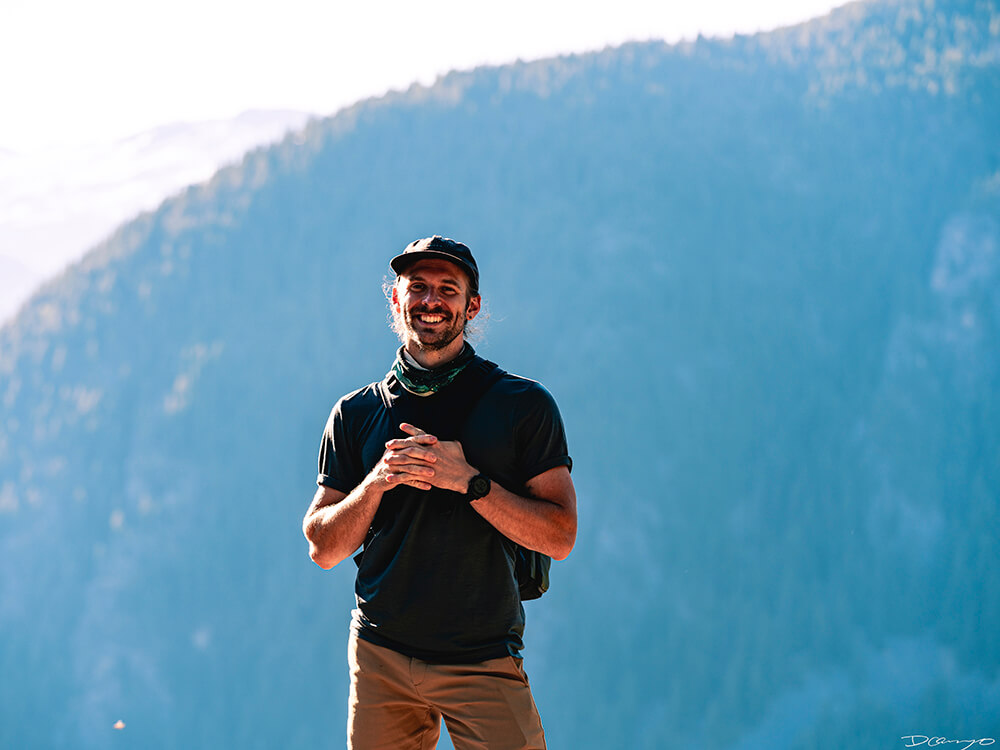
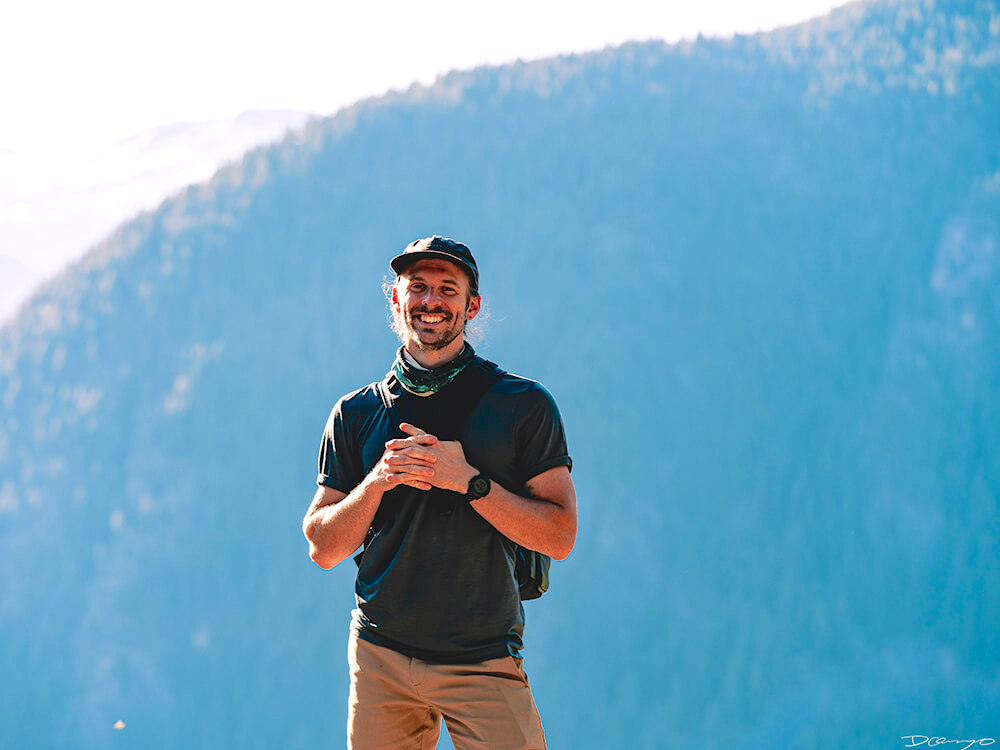
Changed 'about page' and links

diff --git a/about.html b/about.html
@@ -112,13 +112,13 @@
     <br />
     <p>
       <img
-        src="images/North Cascades/7R307823web.jpg"
+        src="images/HomePages/7R300861web.jpg"
         alt="Landscape and portrait photos from a July 2020 trip to the North Cascades. Sourdough Mountain, Diablo Lake, Ross Lake and more."
         style="max-width: 920px; width: 100%; height: auto"
       />
     </p>
     <h4 style="margin: auto 12px">
-      In the North Cascades of Washington State, Summer 2020.
+      <!-- Comment here-->
     </h4>
 
     <br />
@@ -128,9 +128,9 @@
       <br />
       <br />
       I am a former collegiate athlete (swimmer) who loves being as close to the
-      ocean as I am to the mountains. My passion is capturing and sharing the
-      world as I see it in my mind. In my work I focus on landscapes, portraits,
-      automotive, events, product, real estate, and more.
+      ocean as I am to the mountains. I love capturing and sharing the world as
+      I see it in my mind. In my work I mainly focus on landscapes, portraits,
+      flora and textures, automotive, events, product, real estate, and more.
       <br />
       <br />
       If you'd like to work together, send me a message!
@@ -149,6 +149,10 @@
 
       Lenses
       <br />
+      <a href="https://amazon.com/dp/B07QP16B8M/"
+        >Voigtlander 50mm f1.2 for Sony</a
+      >
+      - stays on my camera 90% of the time<br />
       <a href="https://amzn.to/2AGZH5W">Sony 70-200mm f2.8 GM</a><br />
       <a href="https://amzn.to/3307vvF">Sony 16-35 f2.8 GM</a><br />
       <a href="https://amzn.to/354Niqw">Sony 85mm f1.4 GM</a><br />

diff --git a/index.html b/index.html
@@ -27,7 +27,7 @@
     <meta name="viewport" content="width=device-width, initial-scale=1" />
     <meta
       name="description"
-      content="Danny Camozzo, California based Photography and Videography. Landscape and portrait photography from the California California, National Parks around the US, and scenic views worldwide. The main website, homepage, and portfolio of Camozzo Media."
+      content="Danny Camozzo, California based Photography and Videography. Landscape and portrait photography from California, National Parks around the US, and scenic views worldwide. The main website, homepage, and portfolio of Camozzo Media."
     />
     <link
       href="https://fonts.googleapis.com/css?family=Lato:900,700,400,300,100"
